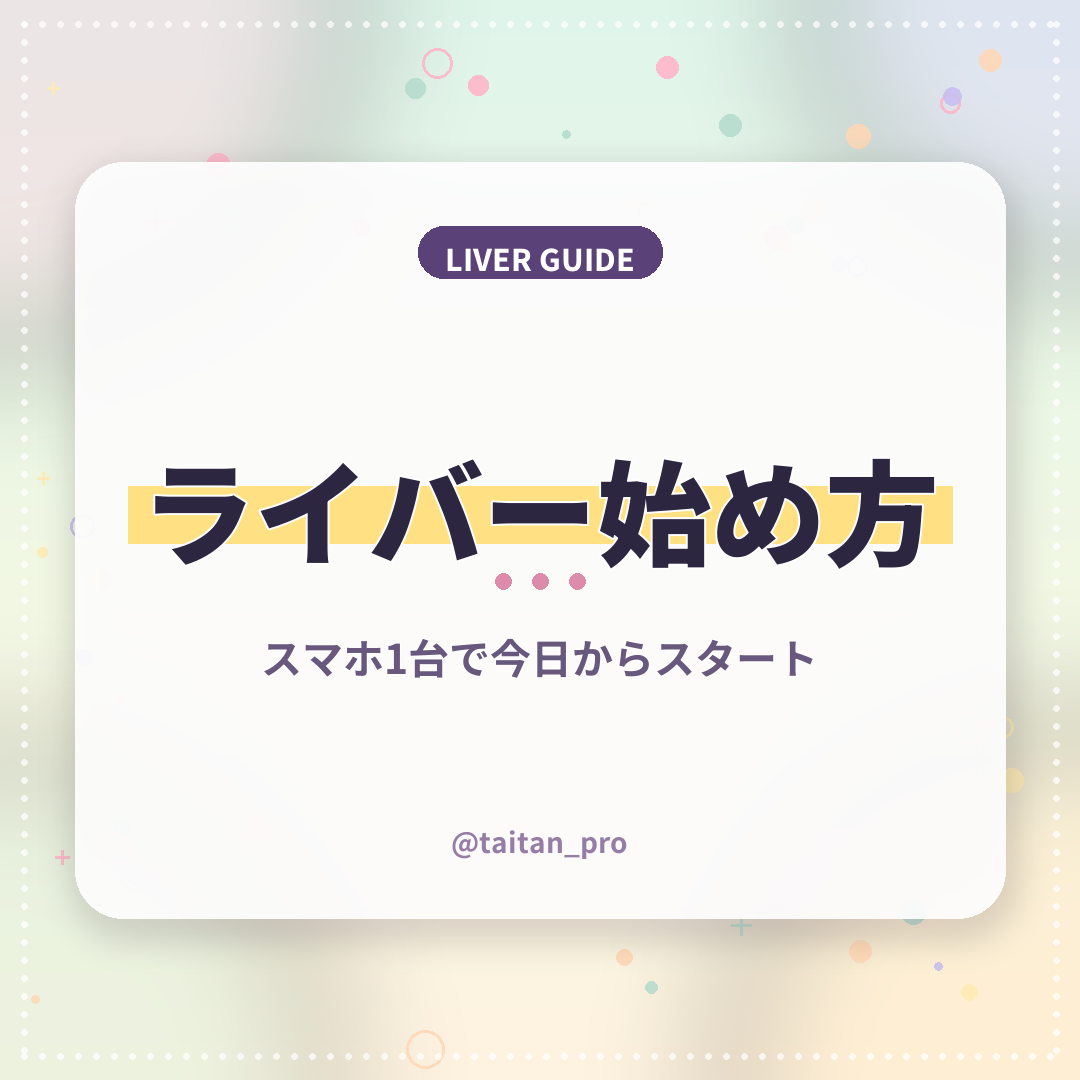
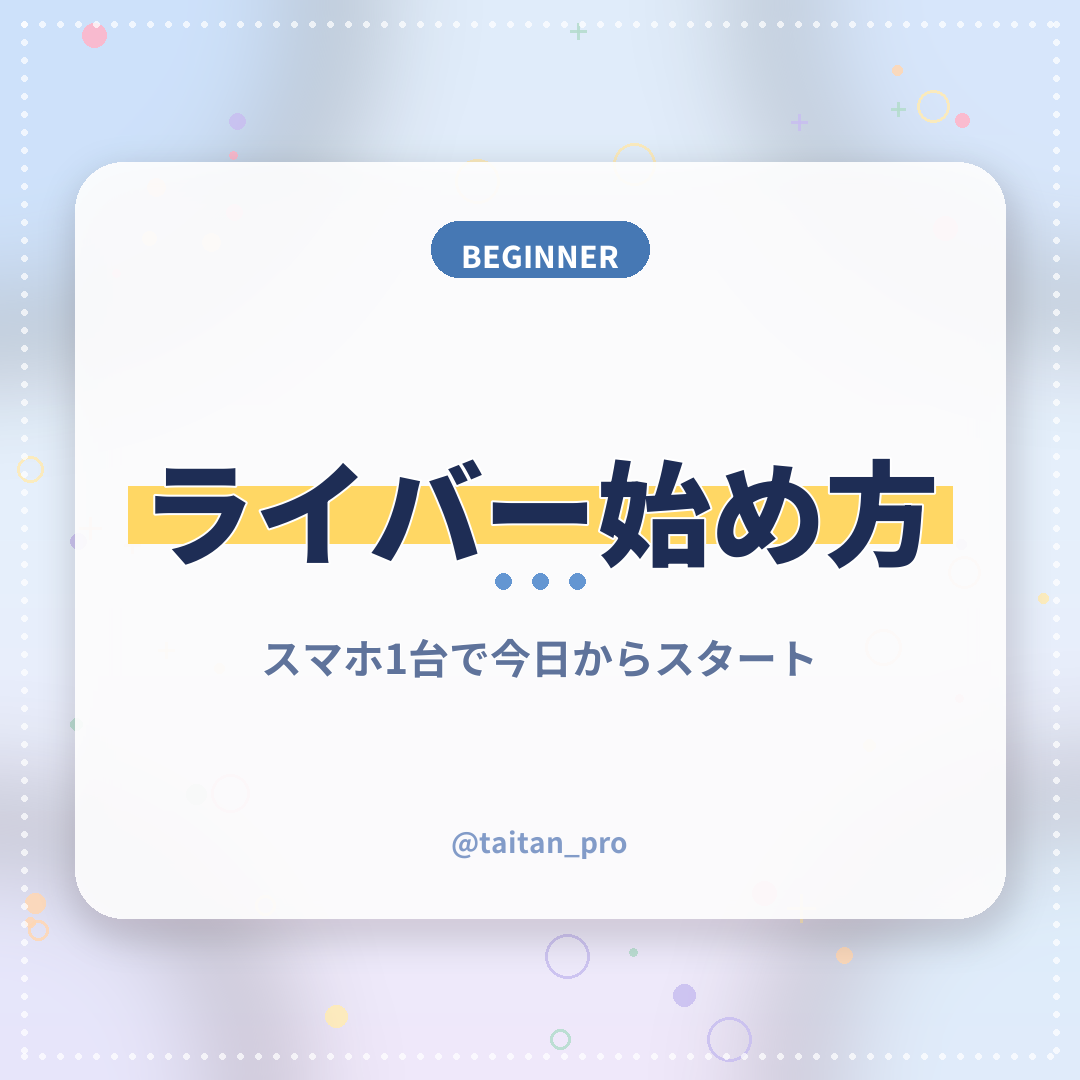
Instagram画像に5カテゴリ別ビジュアル体系を導入
全150投稿（ブログ36本＋Twitter 114本）を高品質・統一感ある
カテゴリ別デザインで投稿できるように刷新。

## 5カテゴリ
- BEGINNER（青）: 始め方/初心者/機材/主婦/学生/30代
- EARN（ゴールド）: 稼/収入/副業/ダイヤ/還元率
- AGENCY（モーブ）: 事務所/契約/移籍/マネージャー/面接/代理店
- GROW（ミント）: コツ/ランク/ファン/イベント/コラボ/ネタ
- LIFESTYLE（ローズピンク）: メンタル/顔出し/バレ/将来/アプリ比較

## 実装
- カテゴリ別 badge色 / 背景パレット / ブロブ色 / マーカー色 /
  区切り色 / タイトル色 / キャッチ色 / ブランド色 を CATEGORY_THEMES に定義
- _detect_category(title) でキーワードマッチによる自動判定
- _build_image_prompt が category も返すように変更
- _create_pastel_background / _overlay_text_on_image が category 引数対応
- CATCHCOPY_MAP を「具体的なキーワード優先」に並び替え
  （事務所関連が generic に吸われるバグを修正）
- 事務所面接/代理店/ランキング/契約書/怪しい等に個別コピー追加
- 本番 post_000（BEGINNER）/ post_001（EARN）を新デザインで再生成

diff --git a/instagram/ig_content_generator.py b/instagram/ig_content_generator.py
@@ -221,55 +221,180 @@ X投稿:
                 raise
 
 
+# =====================================================================
+# カテゴリ別ビジュアル体系（全投稿を統一感のある高品質デザインに）
+# =====================================================================
+# 各カテゴリ: badge / badge_color / bg_palette / accent / marker / category_icons
+CATEGORY_THEMES = {
+    "BEGINNER": {
+        "badge": "BEGINNER",
+        "badge_bg": (70, 120, 180),          # 深いブルー
+        "bg_palette": [(224, 236, 250), (230, 240, 252), (240, 232, 250)],
+        "blob_colors": [
+            (180, 210, 250, 110),
+            (200, 220, 252, 100),
+            (220, 225, 250, 110),
+            (200, 240, 250, 100),
+        ],
+        "accent": (255, 215, 100, 210),      # ゴールド系マーカー
+        "divider": (100, 150, 210, 255),
+        "title_color": (30, 45, 85),
+        "catch_color": (95, 115, 155),
+        "brand_color": (130, 155, 200, 255),
+    },
+    "EARN": {
+        "badge": "EARN",
+        "badge_bg": (200, 145, 40),          # 深いゴールド
+        "bg_palette": [(255, 242, 212), (255, 232, 210), (255, 224, 228)],
+        "blob_colors": [
+            (255, 215, 150, 120),
+            (255, 225, 170, 110),
+            (255, 205, 180, 110),
+            (255, 235, 190, 110),
+        ],
+        "accent": (255, 200, 120, 220),
+        "divider": (220, 160, 60, 255),
+        "title_color": (70, 45, 20),
+        "catch_color": (135, 100, 60),
+        "brand_color": (185, 140, 70, 255),
+    },
+    "AGENCY": {
+        "badge": "AGENCY",
+        "badge_bg": (110, 80, 145),          # モーブパープル
+        "bg_palette": [(238, 228, 250), (244, 226, 248), (251, 228, 240)],
+        "blob_colors": [
+            (220, 195, 250, 110),
+            (240, 210, 248, 100),
+            (230, 200, 245, 110),
+            (250, 225, 245, 100),
+        ],
+        "accent": (255, 220, 140, 215),
+        "divider": (175, 130, 205, 255),
+        "title_color": (55, 35, 80),
+        "catch_color": (120, 95, 145),
+        "brand_color": (155, 120, 180, 255),
+    },
+    "GROW": {
+        "badge": "GROW",
+        "badge_bg": (55, 140, 110),          # 深いミント
+        "bg_palette": [(222, 246, 232), (232, 248, 226), (245, 252, 228)],
+        "blob_colors": [
+            (180, 230, 200, 110),
+            (200, 240, 210, 110),
+            (215, 245, 200, 100),
+            (235, 250, 215, 100),
+        ],
+        "accent": (255, 225, 130, 215),
+        "divider": (90, 170, 130, 255),
+        "title_color": (25, 60, 45),
+        "catch_color": (85, 130, 100),
+        "brand_color": (110, 160, 130, 255),
+    },
+    "LIFESTYLE": {
+        "badge": "LIFESTYLE",
+        "badge_bg": (205, 100, 130),         # ローズピンク
+        "bg_palette": [(255, 228, 232), (255, 218, 230), (248, 224, 245)],
+        "blob_colors": [
+            (255, 200, 215, 120),
+            (255, 215, 225, 110),
+            (250, 210, 235, 110),
+            (255, 225, 240, 100),
+        ],
+        "accent": (255, 220, 140, 220),
+        "divider": (225, 140, 165, 255),
+        "title_color": (85, 30, 55),
+        "catch_color": (140, 85, 105),
+        "brand_color": (200, 125, 155, 255),
+    },
+}
+
+# キーワード → カテゴリ（先に一致したものを採用、順序重要）
+CATEGORY_RULES = [
+    # AGENCY（事務所関連を最優先）
+    ("AGENCY", ["事務所", "マネージャー", "契約", "移籍", "代理店", "面接", "怪しい"]),
+    # EARN（稼ぎ・収入）
+    ("EARN", ["稼", "収入", "副業", "ダイヤ", "還元", "お金", "確定申告", "月10万", "月5万"]),
+    # BEGINNER（始め方・属性）
+    ("BEGINNER", ["始め方", "初心者", "機材", "主婦", "大学生", "学生", "30代", "始める", "未経験"]),
+    # GROW（スキル・成長）
+    ("GROW", ["コツ", "ランク", "ネタ", "ファン", "イベント", "伸び", "コラボ", "スケジュール", "攻略", "上げ"]),
+    # LIFESTYLE（ライフスタイル・メンタル）
+    ("LIFESTYLE", ["辞めたい", "メンタル", "顔出し", "バレ", "男性", "容姿", "将来", "比較", "市場", "アプリ"]),
+]
+
+# キャッチコピー辞書（先に一致したキーが採用されるため、具体的なキーワードを先に配置）
+CATCHCOPY_MAP = {
+    # --- 最も具体的な複合キーワード（優先） ---
+    "怪しい": "安全な事務所の見分け方",
+    "契約": "損しない契約書チェックポイント",
+    "面接": "事務所面接のよくある質問と答え方",
+    "代理店": "ライバー事務所と代理店の違い",
+    "ランキング": "人気事務所の選び方ガイド",
+    "移籍": "事務所移籍のベストタイミング",
+    "マネージャー": "プロのサポートで成長が加速",
+    "確定申告": "ライバーのお金まわり完全ガイド",
+    "還元率": "知らないと損する報酬のしくみ",
+    "時間ダイヤ": "報酬のしくみを徹底解説",
+    "ダイヤ": "報酬のしくみを徹底解説",
+    "フリー比較": "事務所と個人、どっちが得？",
+    "上げ方": "最短でランクを上げる戦略",
+    "伸びない": "伸び悩みを突破する方法",
+    "辞めたい": "もう悩まない！次のステップへ",
+    "メンタル": "配信疲れを防ぐセルフケア",
+    "副業バレ": "本業にバレずに副業する方法",
+    "バレない": "身バレを防いで安心配信",
+    "バレ": "身バレを防いで安心配信",
+    "顔出し": "顔出しなしでも稼げる方法",
+    "容姿": "見た目じゃない！トーク力が武器",
+    "始め方": "スマホ1台で今日からスタート",
+    "主婦": "ママでもできる在宅ワーク",
+    "大学生": "学生×ライバーの新しい生き方",
+    "30代": "30代から始める新しい挑戦",
+    "男性": "男性ライバーの可能性は無限大",
+    "機材": "必要なのはスマホだけ",
+    "スケジュール": "ムリなく続けるコツ",
+    "イベント": "イベント攻略で一気にランクUP",
+    "コラボ": "コラボで一気にファン拡大",
+    "ファン": "ファンに愛されるライバーに",
+    "ネタ": "配信が楽しくなるアイデア集",
+    "初心者": "未経験でも大丈夫",
+    "アプリ比較": "アプリ選びで差がつく",
+    "将来": "ライブ配信市場はまだまだ成長中",
+    "副業": "おうち時間を収入に変える",
+    "収入": "自分らしく稼ぐ新しい働き方",
+    "稼": "好きなことで収入GET",
+    "コツ": "人気ライバーの秘密を公開",
+    "ランク": "トップライバーへの道",
+    "比較": "アプリ選びで差がつく",
+    # --- 最終フォールバック（ジェネリック） ---
+    "事務所": "あなたに合う事務所が見つかる",
+}
+
+
+def _detect_category(title):
+    """タイトルからカテゴリを判定。どれにも当たらなければ BEGINNER をデフォルト。"""
+    for cat, keywords in CATEGORY_RULES:
+        if any(k in title for k in keywords):
+            return cat
+    return "BEGINNER"
+
+
 def _build_image_prompt(article):
-    """記事内容に応じた画像生成プロンプトを構築"""
+    """記事内容に応じた画像生成プロンプトを構築。
+    戻り値: (prompt, short_title, catchcopy, category)
+    """
     title = article["title"]
 
-    # タイトルから短いキャッチコピーを抽出・生成
-    catchcopy_map = {
-        "始め方": "スマホ1台で今日からスタート",
-        "稼": "好きなことで収入GET",
-        "事務所": "あなたに合う事務所が見つかる",
-        "初心者": "未経験でも大丈夫",
-        "収入": "自分らしく稼ぐ新しい働き方",
-        "副業": "おうち時間を収入に変える",
-        "コツ": "人気ライバーの秘密を公開",
-        "ランク": "トップライバーへの道",
-        "ダイヤ": "報酬のしくみを徹底解説",
-        "機材": "必要なのはスマホだけ",
-        "ネタ": "配信が楽しくなるアイデア集",
-        "伸びない": "伸び悩みを突破する方法",
-        "ファン": "ファンに愛されるライバーに",
-        "男性": "男性ライバーの可能性は無限大",
-        "大学生": "学生×ライバーの新しい生き方",
-        "主婦": "ママでもできる在宅ワーク",
-        "確定申告": "ライバーのお金まわり完全ガイド",
-        "辞めたい": "もう悩まない！次のステップへ",
-        "還元率": "知らないと損する報酬のしくみ",
-        "イベント": "イベント攻略で一気にランクUP",
-        "スケジュール": "ムリなく続けるコツ",
-        "メンタル": "配信疲れを防ぐセルフケア",
-        "移籍": "事務所移籍のベストタイミング",
-        "容姿": "見た目じゃない！トーク力が武器",
-        "契約": "損しない契約書チェックポイント",
-        "コラボ": "コラボで一気にファン拡大",
-        "将来": "ライブ配信市場はまだまだ成長中",
-        "マネージャー": "プロのサポートで成長が加速",
-        "怪しい": "安全な事務所の見分け方",
-        "バレ": "身バレを防いで安心配信",
-        "30代": "30代から始める新しい挑戦",
-        "比較": "アプリ選びで差がつく",
-        "顔出し": "顔出しなしでも稼げる方法",
-    }
-
     catchcopy = "あなたの魅力を、収入に変えよう"
-    for keyword, copy in catchcopy_map.items():
+    for keyword, copy in CATCHCOPY_MAP.items():
         if keyword in title:
             catchcopy = copy
             break
 
     # タイトルを短く整形（数字プレフィックスを除去）
     short_title = re.sub(r"^\d+_", "", title)
+
+    category = _detect_category(title)
 
     # ⚠ 画像モデル（Imagen / Gemini）は日本語テキストを正しく描画できないため、
     # プロンプトでは「テキストを一切入れない背景イラスト」のみ生成させる。
@@ -293,29 +418,20 @@ STRICT RULES:
 - ABSOLUTELY NO TEXT, NO LETTERS, NO CHARACTERS of any language (no Japanese, no English, no numbers, no symbols that look like letters)
 - No realistic human faces or photorealistic people
 - No dark colors, no busy compositions
-- No watermarks, no logos""", short_title, catchcopy
+- No watermarks, no logos""", short_title, catchcopy, category
 
 
-def _create_pastel_background(size=1080, seed=None):
-    """Pillowでパステル装飾背景を生成（API不要・完全ローカル）。
+def _create_pastel_background(size=1080, seed=None, category="BEGINNER"):
+    """Pillowでカテゴリ別パステル装飾背景を生成（API不要・完全ローカル）。
     Imagen失敗時のフォールバック、および崩壊画像の修復に使用。"""
     import random as _rd
     from PIL import Image, ImageDraw, ImageFilter
 
     rng = _rd.Random(seed)
 
-    # --- パレット候補（バズる女性向けSNSカラー） ---
-    palettes = [
-        # lavender → peach pink
-        [(237, 225, 248), (251, 225, 232), (255, 236, 224)],
-        # mint → cream
-        [(224, 245, 235), (240, 248, 228), (255, 243, 224)],
-        # peach → rose
-        [(255, 232, 224), (253, 220, 230), (245, 225, 245)],
-        # sky blue → lavender
-        [(224, 236, 250), (234, 228, 248), (248, 228, 240)],
-    ]
-    palette = rng.choice(palettes)
+    theme = CATEGORY_THEMES.get(category, CATEGORY_THEMES["BEGINNER"])
+    palette = theme["bg_palette"]
+    blob_colors = theme["blob_colors"]
 
     img = Image.new("RGB", (size, size), palette[0])
 
@@ -338,12 +454,6 @@ def _create_pastel_background(size=1080, seed=None):
     # --- 2. 大きなぼかし円（雰囲気作り、コーナー配置） ---
     blob_layer = Image.new("RGBA", (size, size), (0, 0, 0, 0))
     bdraw = ImageDraw.Draw(blob_layer)
-    blob_colors = [
-        (255, 200, 220, 90),  # pink
-        (220, 200, 250, 90),  # lavender
-        (200, 240, 220, 80),  # mint
-        (255, 230, 190, 90),  # peach
-    ]
     corners = [(0, 0), (size, 0), (0, size), (size, size)]
     for (cx, cy), col in zip(corners, blob_colors):
         r = rng.randint(260, 360)
@@ -506,12 +616,14 @@ def _get_font(weight, size):
     return ImageFont.load_default()
 
 
-def _overlay_text_on_image(image_path, title, catchcopy, category="LIVER GUIDE", brand="@taitan_pro"):
+def _overlay_text_on_image(image_path, title, catchcopy, category="BEGINNER", brand="@taitan_pro"):
     """生成された背景画像にPillowで日本語タイトル＋キャッチコピーを合成。
     Instagramで保存されるカルーセル投稿を意識したバズる構成:
       [カテゴリバッジ] → [HUGEタイトル（マーカーハイライト）] → [区切り] → [キャッチコピー] → [ブランド名]
     """
     from PIL import Image, ImageDraw, ImageFilter
+
+    theme = CATEGORY_THEMES.get(category, CATEGORY_THEMES["BEGINNER"])
 
     img = Image.open(image_path).convert("RGBA")
     W, H = img.size
@@ -544,17 +656,17 @@ def _overlay_text_on_image(image_path, title, catchcopy, category="LIVER GUIDE",
 
     # --- 2. カテゴリバッジ（パネル上部、ピル型） ---
     badge_font = _get_font(weight=800, size=int(W * 0.028))
-    badge_text = category
+    badge_text = theme["badge"]
     b_bbox = draw.textbbox((0, 0), badge_text, font=badge_font)
     b_w = b_bbox[2] - b_bbox[0]
     b_h = b_bbox[3] - b_bbox[1]
-    badge_pad_x = int(W * 0.025)
-    badge_pad_y = int(W * 0.012)
+    badge_pad_x = int(W * 0.028)
+    badge_pad_y = int(W * 0.013)
     badge_w = b_w + 2 * badge_pad_x
     badge_h = b_h + 2 * badge_pad_y + 4
     badge_x = (W - badge_w) // 2
-    badge_y = panel_margin_y + int(H * 0.06)
-    badge_color = (90, 65, 120, 255)  # 深いパープル
+    badge_y = panel_margin_y + int(H * 0.055)
+    badge_color = theme["badge_bg"] + (255,)
     draw.rounded_rectangle(
         [badge_x, badge_y, badge_x + badge_w, badge_y + badge_h],
         radius=badge_h // 2, fill=badge_color,
@@ -612,8 +724,8 @@ def _overlay_text_on_image(image_path, title, catchcopy, category="LIVER GUIDE",
 
     # --- 5. タイトル描画（マーカーハイライトを最後の行の背景に敷く） ---
     y = block_start_y
-    title_color = (45, 38, 65)  # 濃いモーブ
-    highlight_color = (255, 224, 130, 200)  # イエローマーカー
+    title_color = theme["title_color"]
+    highlight_color = theme["accent"]
 
     for i, line in enumerate(title_lines):
         bbox = draw.textbbox((0, 0), line, font=title_font)
@@ -639,7 +751,7 @@ def _overlay_text_on_image(image_path, title, catchcopy, category="LIVER GUIDE",
     divider_y = y + divider_gap // 2
     dot_r = int(W * 0.008)
     dot_gap = int(W * 0.035)
-    dot_color = (220, 140, 170, 255)
+    dot_color = theme["divider"]
     for k in (-1, 0, 1):
         cx = W // 2 + k * dot_gap
         draw.ellipse([cx - dot_r, divider_y - dot_r, cx + dot_r, divider_y + dot_r],
@@ -647,7 +759,7 @@ def _overlay_text_on_image(image_path, title, catchcopy, category="LIVER GUIDE",
 
     # --- 7. キャッチコピー描画 ---
     catch_y = divider_y + int(catch_size * 1.1)
-    catch_color = (105, 88, 125)
+    catch_color = theme["catch_color"]
     for line in catch_lines:
         bbox = draw.textbbox((0, 0), line, font=catch_font)
         line_w = bbox[2] - bbox[0]
@@ -663,12 +775,12 @@ def _overlay_text_on_image(image_path, title, catchcopy, category="LIVER GUIDE",
     brand_x = (W - brand_w) // 2
     brand_y = H - panel_margin_y - brand_bottom_margin - brand_font_size
     draw.text((brand_x, brand_y), brand, font=brand_font,
-              fill=(150, 125, 165, 255))
+              fill=theme["brand_color"])
 
     # 保存（PNG）
     img.convert("RGB").save(image_path, "PNG", optimize=True)
     print(f"  テキスト合成完了: {os.path.basename(image_path)} "
-          f"(title={len(title_lines)}行 @{title_size}px)")
+          f"[{category}] (title={len(title_lines)}行 @{title_size}px)")
 
 
 def generate_image(article, index, dry_run=False):
@@ -684,8 +796,8 @@ def generate_image(article, index, dry_run=False):
 
     client = genai.Client(api_key=config.GEMINI_API_KEY)
 
-    prompt, short_title, catchcopy = _build_image_prompt(article)
-    print(f"  タイトル: {short_title} / キャッチ: {catchcopy}")
+    prompt, short_title, catchcopy, category = _build_image_prompt(article)
+    print(f"  タイトル: {short_title} / キャッチ: {catchcopy} / [{category}]")
 
     import time as _time
 
@@ -707,7 +819,7 @@ def generate_image(article, index, dry_run=False):
                     f.write(image_data)
                 print(f"  画像生成完了: {image_path}")
                 try:
-                    _overlay_text_on_image(image_path, short_title, catchcopy)
+                    _overlay_text_on_image(image_path, short_title, catchcopy, category=category)
                 except Exception as e:
                     print(f"  [WARNING] テキスト合成失敗: {e}")
                 return image_path
@@ -737,7 +849,7 @@ def generate_image(article, index, dry_run=False):
                             f.write(part.inline_data.data)
                         print(f"  画像生成完了 (フォールバック {fb_model}): {image_path}")
                         try:
-                            _overlay_text_on_image(image_path, short_title, catchcopy)
+                            _overlay_text_on_image(image_path, short_title, catchcopy, category=category)
                         except Exception as e:
                             print(f"  [WARNING] テキスト合成失敗: {e}")
                         return image_path
@@ -746,9 +858,9 @@ def generate_image(article, index, dry_run=False):
 
     print("  [WARNING] Imagen/Gemini画像生成失敗 → Pillowフォールバック背景を使用")
     try:
-        bg = _create_pastel_background(size=1080, seed=hash(short_title) & 0xFFFFFFFF)
+        bg = _create_pastel_background(size=1080, seed=hash(short_title) & 0xFFFFFFFF, category=category)
         bg.save(image_path)
-        _overlay_text_on_image(image_path, short_title, catchcopy)
+        _overlay_text_on_image(image_path, short_title, catchcopy, category=category)
         print(f"  フォールバック画像生成完了: {image_path}")
         return image_path
     except Exception as e:
